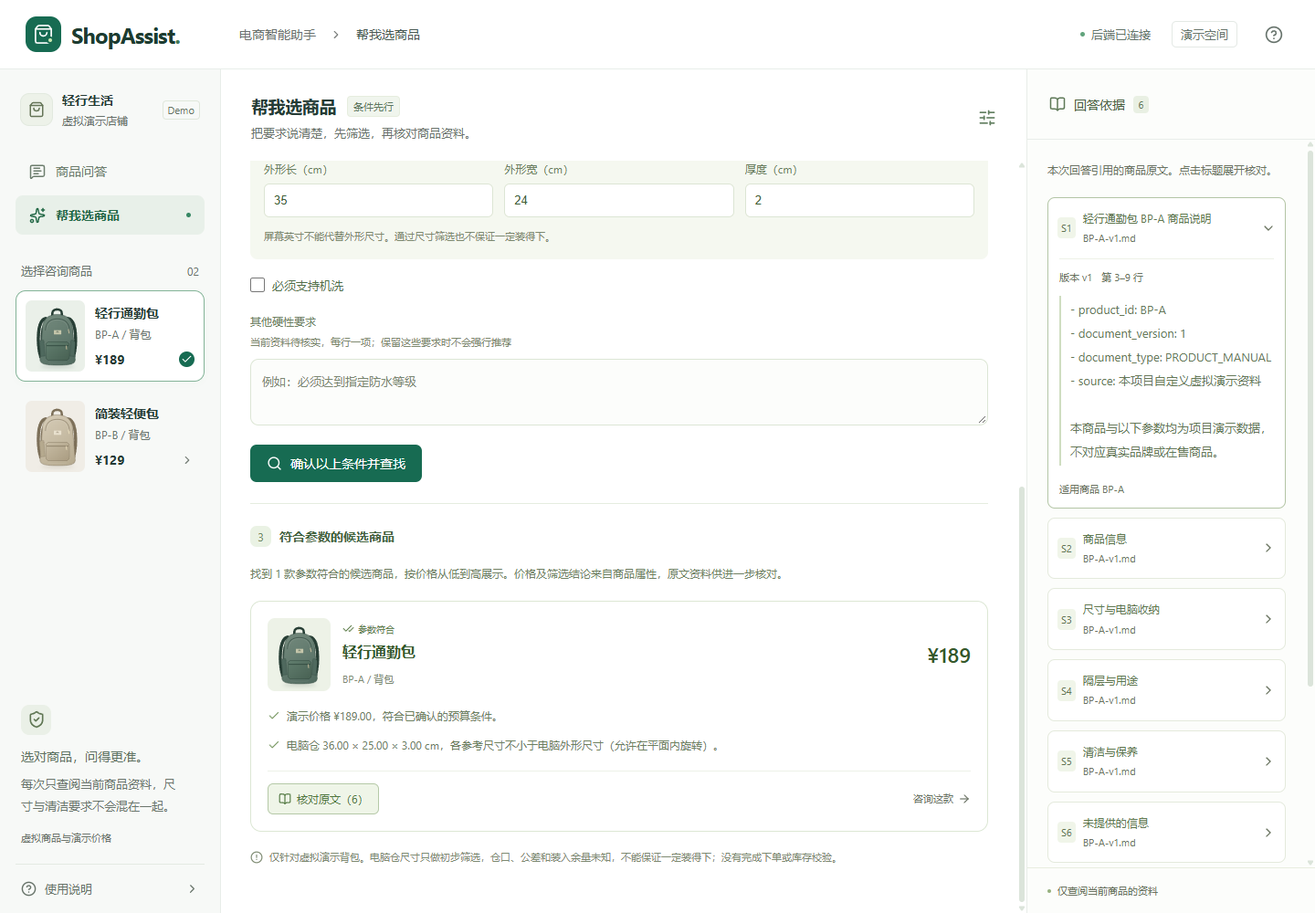
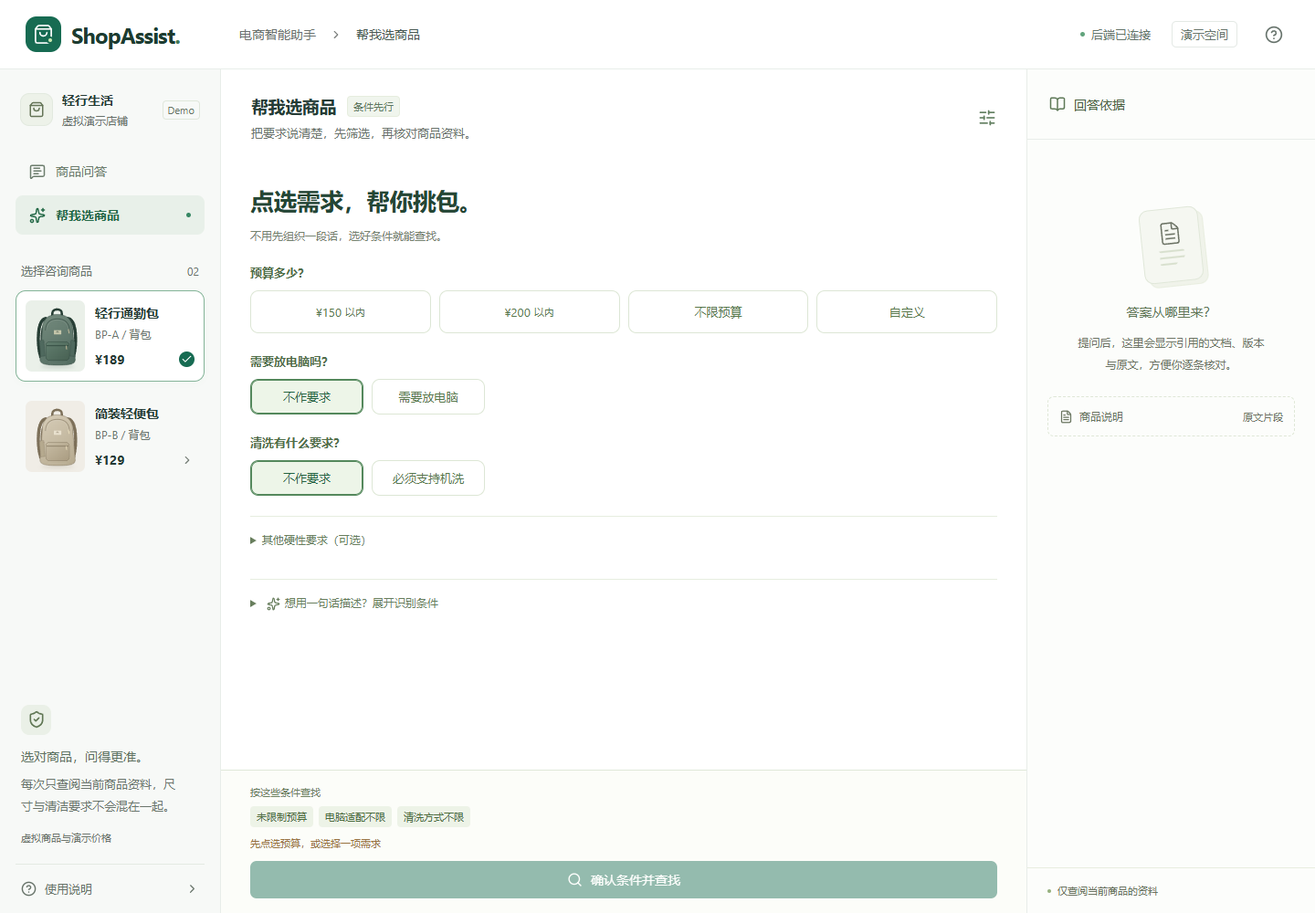
feat: streamline product recommendations with direct condition selection

diff --git a/web/src/components/RecommendationPanel.tsx b/web/src/components/RecommendationPanel.tsx
@@ -27,11 +27,22 @@ export default function RecommendationPanel({ active, onConsult, onSources, onRe
   const controller = useRef<AbortController | null>(null)
   const resultElement = useRef<HTMLDivElement>(null)
   const locked = useRef(false)
+  const [customBudget, setCustomBudget] = useState(false)
+  const advancedBudget = customBudget || (form.min !== '' && form.min !== '0') || !form.minInclusive || !form.maxInclusive || (form.max !== '' && !['150','200'].includes(form.max))
+  const dimensionNames = ['长', '宽', '厚']
+  const dimensions = [form.length,form.width,form.thickness]
+  const missingDimensions = form.laptop ? dimensionNames.filter((_,i)=>!dimensions[i]) : []
+  const badDimension = form.laptop && dimensions.some(value=>value!=='' && (!Number.isFinite(Number(value)) || Number(value)<=0 || Number(value)>200 || Math.abs(Number(value)*100-Math.round(Number(value)*100))>0.000001))
+  const budgetConflict = form.min!=='' && form.max!=='' && (Number(form.min)>Number(form.max) || (Number(form.min)===Number(form.max) && (!form.minInclusive || !form.maxInclusive)))
+  const hasCondition = form.min!=='' || form.max!=='' || form.laptop || form.machineWash || !!form.unsupported.trim()
+  const missingHint = message.trim() && !recognized ? '请先识别已填写的文字需求，或清空文字后直接点选条件' : missingDimensions.length ? `还需填写电脑的${missingDimensions.join('、')}（cm）` : badDimension ? '尺寸应为 0～200 cm 之间的正数，最多两位小数' : budgetConflict ? '预算上下限有冲突，请修改' : !hasCondition ? '先点选预算，或选择一项需求' : ''
+  const budgetSummary = form.min==='0' && form.max==='' ? '预算不限' : [form.min!=='' ? `${form.minInclusive?'≥':'>'} ¥${form.min}` : '',form.max!=='' ? `${form.maxInclusive?'≤':'<'} ¥${form.max}` : ''].filter(Boolean).join('，') || '未限制预算'
   useEffect(() => () => controller.current?.abort(), [])
   useEffect(() => {
     if (!seed) return
     controller.current?.abort(); controller.current=null; locked.current=false; setBusy(null)
     const c=seed.criteria
+    setCustomBudget(false)
     setMessage(seed.message); setRecognized(true); setResult(null); setError(null)
     setForm({ min:c.minPriceCny?.toString()??'',max:c.maxPriceCny?.toString()??'',minInclusive:c.minPriceInclusive,maxInclusive:c.maxPriceInclusive,laptop:c.needsLaptop,length:c.laptop?.lengthCm.toString()??'',width:c.laptop?.widthCm.toString()??'',thickness:c.laptop?.thicknessCm.toString()??'',machineWash:c.machineWashRequired,unsupported:c.unsupportedRequirements.join('\n') })
   }, [seed])
@@ -55,6 +66,7 @@ export default function RecommendationPanel({ active, onConsult, onSources, onRe
       if (kind === 'understand') {
         const criteria = await understandRequirement(message.trim(), request.signal)
         if(request.signal.aborted) return
+        setCustomBudget(false)
         setForm({
           min: criteria.minPriceCny?.toString() ?? '', max: criteria.maxPriceCny?.toString() ?? '',
           minInclusive: criteria.minPriceInclusive, maxInclusive: criteria.maxPriceInclusive,
@@ -64,6 +76,7 @@ export default function RecommendationPanel({ active, onConsult, onSources, onRe
         })
         setRecognized(true)
       } else {
+        if(missingHint) throw new ApiError(missingHint)
         const dimensions = [form.length, form.width, form.thickness]
         if (form.laptop && dimensions.some(Boolean) && !dimensions.every(Boolean)) throw new ApiError('请完整填写电脑的长、宽、厚，或清空尺寸后查看补充信息提示。')
         const criteria: RecommendationCriteria = {
@@ -87,36 +100,26 @@ export default function RecommendationPanel({ active, onConsult, onSources, onRe
   return <main className="chat-panel recommendation-panel" hidden={!active} aria-label="条件推荐">
     <div className="chat-heading"><div><h1>帮我选商品<span className="heading-tag">条件先行</span></h1><p>把要求说清楚，先筛选，再核对商品资料。</p></div><SlidersHorizontal size={20} className="recommend-heading-icon" /></div>
     <div className="recommend-scroll">
-      <div className="recommend-intro"><span><Sparkles size={15} />找到合适的那一只</span><h2>先看需求，再选背包。</h2><p>支持预算、电脑外形尺寸和机洗要求。未覆盖的条件会明确提示。</p></div>
-      <section className="requirements-section">
-        <div className="recommend-section-title"><span>1</span><h3>说说你的需求</h3><small>也可以跳过，直接填写下方条件</small></div>
-        <form onSubmit={e => { e.preventDefault(); void run('understand') }}>
-          <label htmlFor="requirement-description" className="sr-only">选购需求描述</label>
-          <textarea id="requirement-description" value={message} disabled={!!busy} onChange={e => changeDescription(e.target.value)} placeholder="例如：预算 200 元以内，电脑含保护壳 35×24×2 cm，想选一个背包。" rows={3} />
-          <div className="requirement-examples"><button type="button" disabled={!!busy} onClick={() => changeDescription('预算150元以内，推荐一个背包')}>预算 150 元以内</button><button type="button" disabled={!!busy} onClick={() => changeDescription('预算200元以内，电脑外形35×24×2 cm，需要放电脑')}>需要放电脑</button><button type="button" disabled={!!busy} onClick={() => changeDescription('预算200元以内，必须支持机洗')}>必须能机洗</button></div>
-          <div className="requirement-action"><span>{recognized ? <><Check size={14} />已识别，请核对下方条件</> : '识别结果需要你确认，不会直接推荐'}</span><button type="submit" className="outline-button" disabled={!!busy || !message.trim() || Array.from(message).length > 1000}>{busy === 'understand' ? <LoaderCircle className="spin" size={15} /> : <Sparkles size={15} />}识别条件</button></div>
-        </form>
-      </section>
-
-      <section className="requirements-section">
-        <div className="recommend-section-title"><span>2</span><h3>核对筛选条件</h3></div>
-        <form onSubmit={e => { e.preventDefault(); void run('filter') }}>
+      <div className="recommend-intro compact"><h2>点选需求，帮你挑包。</h2><p>不用先组织一段话，选好条件就能查找。</p></div>
+      {recognized && <p className="recognized-note"><Check size={15}/>已带入识别出的条件，请在下方核对；可直接修改。</p>}
+      <section className="requirements-section choice-section">
+        <form id="recommend-form" tabIndex={-1} onSubmit={e => { e.preventDefault(); void run('filter') }}>
           <fieldset disabled={!!busy}>
             <legend className="sr-only">已确认的筛选条件</legend>
-            <div className="budget-fields"><label>预算下限（元）<div><select aria-label="预算下限是否包含边界" value={String(form.minInclusive)} onChange={e => update({ minInclusive: e.target.value === 'true' })}><option value="true">不低于</option><option value="false">高于</option></select><input aria-label="预算下限" type="number" min="0" max="1000000" step="0.01" placeholder="不限" value={form.min} onChange={e => update({ min: e.target.value })} /></div></label><label>预算上限（元）<div><select aria-label="预算上限是否包含边界" value={String(form.maxInclusive)} onChange={e => update({ maxInclusive: e.target.value === 'true' })}><option value="true">不超过</option><option value="false">低于</option></select><input aria-label="预算上限" type="number" min="0" max="1000000" step="0.01" placeholder="不限" value={form.max} onChange={e => update({ max: e.target.value })} /></div></label></div>
-            <label className="condition-checkbox"><input type="checkbox" checked={form.laptop} onChange={e => update({ laptop: e.target.checked })} /><span>需要放电脑</span><small>使用含保护壳的机身尺寸</small></label>
+            <div className="choice-group"><h3>预算多少？</h3><div className="budget-options" role="group" aria-label="预算快捷选择">{['150','200'].map(value=><button type="button" key={value} className="choice-button" aria-pressed={!advancedBudget && form.min==='' && form.max===value && form.maxInclusive} onClick={()=>{setCustomBudget(false);update({min:'',max:value,minInclusive:true,maxInclusive:true})}}>¥{value}<small>以内</small></button>)}<button type="button" className="choice-button" aria-pressed={!advancedBudget && form.min==='0' && form.max===''} onClick={()=>{setCustomBudget(false);update({min:'0',max:'',minInclusive:true,maxInclusive:true})}}>不限预算</button><button type="button" className="choice-button" aria-pressed={advancedBudget} onClick={()=>setCustomBudget(true)}>自定义</button></div></div>
+            {advancedBudget && <div className="budget-fields"><label>预算下限（元）<div><select aria-label="预算下限是否包含边界" value={String(form.minInclusive)} onChange={e => update({ minInclusive: e.target.value === 'true' })}><option value="true">不低于</option><option value="false">高于</option></select><input aria-label="预算下限" type="number" min="0" max="1000000" step="0.01" placeholder="不限" value={form.min} onChange={e => update({ min: e.target.value })} /></div></label><label>预算上限（元）<div><select aria-label="预算上限是否包含边界" value={String(form.maxInclusive)} onChange={e => update({ maxInclusive: e.target.value === 'true' })}><option value="true">不超过</option><option value="false">低于</option></select><input aria-label="预算上限" type="number" min="0" max="1000000" step="0.01" placeholder="不限" value={form.max} onChange={e => update({ max: e.target.value })} /></div></label></div>}
+            <div className="choice-group"><h3>需要放电脑吗？</h3><div className="need-options" role="group" aria-label="电脑适配要求"><button type="button" className="choice-button" aria-pressed={!form.laptop} onClick={()=>update({laptop:false})}>不作要求</button><button type="button" className="choice-button" aria-pressed={form.laptop} onClick={()=>update({laptop:true})}>需要放电脑</button></div></div>
             {form.laptop && <div className="laptop-fields">{(['length', 'width', 'thickness'] as const).map((key, index) => <label key={key}>{['外形长（cm）', '外形宽（cm）', '厚度（cm）'][index]}<input type="number" min="0.01" max="200" step="0.01" placeholder="待补充" value={form[key]} onChange={e => update({ [key]: e.target.value })} /></label>)}<p>屏幕英寸不能代替外形尺寸。通过尺寸筛选也不保证一定装得下。</p></div>}
-            <label className="condition-checkbox"><input type="checkbox" checked={form.machineWash} onChange={e => update({ machineWash: e.target.checked })} /><span>必须支持机洗</span></label>
-            <label className="unsupported-label" htmlFor="unsupported-requirements">其他硬性要求<span>当前资料待核实，每行一项；保留这些要求时不会强行推荐</span></label>
-            <textarea id="unsupported-requirements" value={form.unsupported} onChange={e => update({ unsupported: e.target.value })} placeholder="例如：必须达到指定防水等级" rows={2} />
+            <div className="choice-group"><h3>清洗有什么要求？</h3><div className="need-options" role="group" aria-label="清洗要求"><button type="button" className="choice-button" aria-pressed={!form.machineWash} onClick={()=>update({machineWash:false})}>不作要求</button><button type="button" className="choice-button" aria-pressed={form.machineWash} onClick={()=>update({machineWash:true})}>必须支持机洗</button></div></div>
+            <details className="extra-conditions" open={!!form.unsupported.trim()}><summary>其他硬性要求{form.unsupported.trim()?'（待核实）':'（可选）'}</summary><label className="unsupported-label" htmlFor="unsupported-requirements">每行一项。当前资料未覆盖的要求会明确提示，不会静默忽略。</label><textarea id="unsupported-requirements" value={form.unsupported} onChange={e => update({ unsupported: e.target.value })} placeholder="例如：必须达到指定防水等级" rows={2} /></details>
           </fieldset>
           {error && <div className="recommend-error" role="alert"><CircleAlert size={17} /><span>{error}</span></div>}
-          <button type="submit" className="primary-button recommend-submit" disabled={!!busy}>{busy === 'filter' ? <LoaderCircle className="spin" size={17} /> : <Search size={17} />}确认以上条件并查找</button>
         </form>
       </section>
+      <details className="description-option"><summary><Sparkles size={15}/>想用一句话描述？展开识别条件</summary><form onSubmit={e => { e.preventDefault(); void run('understand') }}><label htmlFor="requirement-description" className="sr-only">选购需求描述</label><textarea id="requirement-description" value={message} disabled={!!busy} onChange={e => changeDescription(e.target.value)} placeholder="例如：预算不到150元，想放14寸电脑。" rows={2}/><div className="requirement-action"><span>识别后仍需核对，电脑尺寸不会自动猜测</span><button type="submit" className="outline-button" disabled={!!busy || !message.trim() || Array.from(message).length>1000}>{busy==='understand'?<LoaderCircle className="spin" size={15}/>:<Sparkles size={15}/>}识别条件</button></div></form></details>
 
       {result && <section className="recommend-results" ref={resultElement} aria-live="polite">
-        <div className="recommend-section-title"><span>3</span><h3>{result.status === 'CANDIDATES' ? '符合参数的候选商品' : result.status === 'NO_MATCH' ? '暂时没有符合的商品' : result.status === 'NEED_INFO' ? '还需要补充一点信息' : '这些要求还无法核实'}</h3></div>
+        <div className="recommend-section-title"><span><Search size={13}/></span><h3>{result.status === 'CANDIDATES' ? '符合参数的候选商品' : result.status === 'NO_MATCH' ? '暂时没有符合的商品' : result.status === 'NEED_INFO' ? '还需要补充一点信息' : '这些要求还无法核实'}</h3></div>
         <p className="recommend-result-message">{result.message}</p>
         <div className="candidate-list">{result.candidates.map(candidate => <article className="candidate-card" key={candidate.product.product_id}>
           <div className="candidate-summary"><div className={`candidate-art ${candidate.product.product_id === 'BP-B' ? 'sand' : ''}`}><Backpack variant={candidate.product.product_id} /></div><div><span className="candidate-status"><CheckCheck size={13} />参数符合</span><h4>{candidate.product.name}</h4><span className="candidate-id">{candidate.product.product_id} / {candidate.product.category}</span></div><strong className="candidate-price">¥{candidate.product.price_cny.toFixed(0)}</strong></div>
@@ -127,5 +130,6 @@ export default function RecommendationPanel({ active, onConsult, onSources, onRe
         <p className="recommend-notice"><CircleAlert size={14} /><span>{result.notice}</span></p>
       </section>}
     </div>
+    <div className="recommend-action-bar"><div className="condition-review" aria-live="polite"><strong>按这些条件查找</strong><div><span>{budgetSummary}</span><span>{form.laptop ? missingDimensions.length ? '电脑尺寸待补全' : `${form.length}×${form.width}×${form.thickness} cm` : '电脑适配不限'}</span><span>{form.machineWash?'必须机洗':'清洗方式不限'}</span>{form.unsupported.trim() && <span>其他要求待核实</span>}</div></div><p className={`condition-hint ${missingHint?'incomplete':''}`} role="status">{missingHint || '只筛选符合条件的商品，资料不足会如实说明。'}</p><button form="recommend-form" type="submit" className="primary-button recommend-submit" disabled={!!busy || !!missingHint}>{busy==='filter'?<LoaderCircle className="spin" size={17}/>:<Search size={17}/>}确认条件并查找</button></div>
   </main>
 }

diff --git a/web/src/styles.css b/web/src/styles.css
@@ -184,3 +184,28 @@ a { color: inherit; }
   .recommend-submit { width: 100%; }.candidate-card { padding: 15px; }.candidate-price { font-size: 20px; }.candidate-summary h4 { font-size: 15px; }
 }.agent-toggle { display:flex; align-items:center; gap:6px; color:#597451; font-size:11px; cursor:pointer; }.agent-toggle input { accent-color:#176b52; }.agent-record { display:flex; flex-direction:column; gap:5px; font-size:11px; color:#6b8061; border-left:2px solid #dbe7d2; padding:8px 10px; background:#f8fbf4; margin:12px 0; overflow-wrap:anywhere; }.agent-review { margin:8px 0; }
 .ticket-card { border:1px solid #b7cbb0; border-radius:10px; background:#f9fcf6; padding:17px; margin:15px 0; }.ticket-card h3 { display:flex; align-items:center; gap:7px; font-size:14px; margin:0 0 12px; color:#345d3f; }.ticket-card h3 span { margin-left:auto; font-size:11px; font-weight:400; color:#8a754c; }.ticket-card p { font-size:12px; line-height:1.9; color:#66775d; overflow-wrap:anywhere; }.ticket-card label { display:block; font-size:12px; color:#56704e; line-height:1.8; }.ticket-card textarea { display:block; width:100%; margin:7px 0 12px; padding:10px; border:1px solid #d5e2cd; border-radius:7px; min-height:100px; resize:vertical; font:inherit; color:#3e5636; background:white; }.ticket-card textarea:focus-visible { outline:2px solid #8eb17a; outline-offset:2px; }.ticket-card label.ticket-confirm { display:flex; gap:8px; align-items:flex-start; }.ticket-confirm input { accent-color:#176b52; margin-top:5px; }.ticket-buttons { display:flex; align-items:center; gap:16px; margin-top:15px; }.ticket-buttons .primary-button { width:auto; }.ticket-number { display:block; font-size:12px; overflow-wrap:anywhere; color:#176b52; }.ticket-summary { white-space:pre-wrap; }.ticket-card .ticket-error { color:#a25d3f; }@media(max-width:700px){.ticket-card{padding:12px}.ticket-card textarea{font-size:16px}.ticket-buttons{flex-wrap:wrap}}
+
+.recommend-intro.compact { margin:0 0 20px; }.recommend-intro.compact h2 { margin-top:0; font-size:26px; }
+.recommend-scroll { flex:1; min-height:0; }
+.choice-section { padding:0 0 18px; border-top:0; }
+.choice-group { margin:0 0 22px; }.choice-group h3 { margin:0 0 11px; font-size:13px; color:#506e49; font-weight:600; }
+.budget-options { display:grid; grid-template-columns:repeat(4,minmax(0,1fr)); gap:9px; }
+.choice-button { border:1px solid #dce6d5; background:#fff; color:#58784d; border-radius:9px; padding:14px 10px; font-size:13px; display:flex; justify-content:center; align-items:center; gap:4px; min-width:0; }
+.choice-button small { font-size:11px; }.choice-button:hover:enabled { border-color:#87ac79; background:#f8fbf4; }.choice-button[aria-pressed=true] { border-color:#54885c; color:#246341; background:#edf5e8; box-shadow:inset 0 0 0 1px #54885c; }
+.need-options { display:flex; gap:9px; }.need-options .choice-button { min-width:124px; padding:10px 16px; }
+.choice-section .budget-fields { margin:-7px 0 23px; }.choice-section .laptop-fields { margin:-8px 0 22px; }
+.extra-conditions, .description-option { border-top:1px solid #e6eddf; padding:14px 0; font-size:12px; color:#687e5d; }
+.extra-conditions summary, .description-option summary { cursor:pointer; padding:3px 0; }.extra-conditions summary:focus-visible, .description-option summary:focus-visible { outline:2px solid #85ad75; outline-offset:4px; }
+.description-option summary svg { vertical-align:middle; margin:0 5px; }.description-option form { margin-top:15px; }.description-option textarea { width:100%; border:1px solid #dce6d5; border-radius:8px; padding:11px; resize:vertical; font:inherit; line-height:1.8; color:#425d39; background:#fcfdf9; }.description-option textarea:focus-visible { outline:2px solid #85ad75; outline-offset:2px; }
+.recognized-note { display:flex; gap:6px; align-items:flex-start; font-size:12px; line-height:1.8; padding:10px; border-radius:7px; background:#f0f6ea; color:#5b7f48; }.recognized-note svg{flex-shrink:0;margin-top:3px}
+.recommend-action-bar { padding:16px 32px; border-top:1px solid #dfe8d9; background:#fcfdf9; }
+.condition-review > strong { display:block; font-size:11px; font-weight:500; color:#6c805f; margin-bottom:8px; }.condition-review > div { display:flex; flex-wrap:wrap; gap:6px; }.condition-review span { font-size:11px; padding:4px 7px; border-radius:4px; background:#edf3e7; color:#4b6b3d; }
+.condition-hint { color:#728268; font-size:11px; margin:9px 0; line-height:1.7; }.condition-hint.incomplete { color:#977140; }.recommend-action-bar .recommend-submit { margin-top:0; width:100%; }
+.recommend-entry { width:100%; display:flex; align-items:center; gap:11px; text-align:left; background:#edf5e9; color:#3c6a42; border:1px solid #d2e3c8; border-radius:10px; padding:14px; margin-bottom:22px; }.recommend-entry > span { display:flex; flex-direction:column; gap:5px; }.recommend-entry strong { font-size:13px; font-weight:600; }.recommend-entry small { font-size:11px; color:#6f8663; }.recommend-entry > svg:last-child { margin-left:auto; }.recommend-entry:hover { background:#e4f0de; }
+@media(max-width:700px){
+ .recommend-intro.compact h2 {font-size:23px}.recommend-intro.compact {margin-bottom:20px}
+ .budget-options {grid-template-columns:repeat(2,minmax(0,1fr));gap:8px}.choice-button {padding:12px 9px}.need-options .choice-button {flex:1;min-width:0;padding:10px 7px}
+ .recommend-action-bar {padding:11px 18px max(12px,env(safe-area-inset-bottom))}.condition-review > strong {display:none}.condition-hint {font-size:10px;margin:7px 0}.condition-review span {font-size:10px;padding:3px 5px}
+ .recommend-entry {padding:11px;margin-bottom:18px}.recommend-entry strong{font-size:12px}.recommend-entry small{font-size:10px}.description-option textarea{font-size:16px}
+}
+@media(max-width:700px){.catalog-sidebar.browsing-catalog .catalog-heading,.catalog-sidebar.browsing-catalog .product-list{display:none}.catalog-sidebar.browsing-catalog .workspace-nav{margin-bottom:0}}

diff --git a/web/src/App.tsx b/web/src/App.tsx
@@ -140,17 +140,17 @@ export default function App() {
   }
 
   return <div className="app-shell">
-    <a className="skip-link" href={mode === 'qa' ? '#question-input' : '#requirement-description'}>跳到提问框</a>
+    <a className="skip-link" href={mode === 'qa' ? '#question-input' : '#recommend-form'}>跳到输入区域</a>
     <header className="topbar">
       <a className="brand" href="/" aria-label="ShopAssist 首页"><BrandMark /><span>ShopAssist<span className="brand-period">.</span></span></a>
       <div className="topbar-center"><span className="workspace-label">电商智能助手</span><ChevronRight size={14} /><span>{mode === 'qa' ? '商品问答' : '帮我选商品'}</span></div>
       <div className="topbar-actions"><span className={`connection-badge ${productsError ? 'offline' : ''}`}><span />{loadingProducts ? '连接中' : productsError ? '后端未连接' : '后端已连接'}</span><span className="demo-label">演示空间</span><button className="icon-button help-button" aria-label="查看使用说明" onClick={() => setShowHelp(true)}><HelpCircle size={20} /></button></div>
     </header>
 
-    <aside className="catalog-sidebar" aria-label="商品选择">
+    <aside className={`catalog-sidebar ${mode==='recommend'?'browsing-catalog':''}`} aria-label="商品选择">
       <div className="workspace-selector"><span className="store-icon"><ShoppingBag size={18} /></span><div><strong>轻行生活</strong><span>虚拟演示店铺</span></div><span className="store-badge">Demo</span></div>
       <nav className="workspace-nav" aria-label="功能"><button className={`workspace-nav-button ${mode === 'qa' ? 'active-nav' : ''}`} aria-current={mode === 'qa' ? 'page' : undefined} onClick={() => { setMode('qa'); setMobileSources(false) }}><MessageSquareText size={18} /><span>商品问答</span>{mode === 'qa' && <span className="nav-dot" />}</button><button className={`workspace-nav-button ${mode === 'recommend' ? 'active-nav' : ''}`} aria-current={mode === 'recommend' ? 'page' : undefined} onClick={() => { setMode('recommend'); setMobileSources(false) }}><Sparkles size={18} /><span>帮我选商品</span>{mode === 'recommend' && <span className="nav-dot" />}</button></nav>
-      <div className="catalog-heading"><h2>选择咨询商品</h2><span>{products.length.toString().padStart(2, '0')}</span></div>
+      <div className="catalog-heading"><h2>{mode==='recommend'?'演示商品目录':'选择咨询商品'}</h2><span>{products.length.toString().padStart(2, '0')}</span></div>
       <div className="product-list">
         {loadingProducts ? <div className="catalog-loading"><LoaderCircle className="spin" size={18} />正在加载商品</div> : productsError ? <div className="catalog-error"><CircleAlert size={20} /><p>商品加载失败</p><button className="text-action" onClick={() => setReload(n => n + 1)}><RefreshCw size={14} />重新加载</button></div> : products.length === 0 ? <p className="empty-catalog">暂无可咨询商品，请先添加商品资料。</p> : products.map(item => <button key={item.product_id} className={`product-card ${item.product_id === selectedId ? 'selected' : ''}`} aria-pressed={item.product_id === selectedId} onClick={() => { setMode('qa'); setSelectedId(item.product_id); setMobileSources(false) }}>
           <span className={`product-art ${item.product_id === 'BP-B' ? 'sand' : ''}`}><Backpack variant={item.product_id} /></span>
@@ -168,7 +168,8 @@ export default function App() {
       <div className="conversation-scroll" ref={scroll} onScroll={() => { const el = scroll.current; if (el) setShowJump(el.scrollHeight - el.scrollTop - el.clientHeight > 240) }}>
         {!turns.length ? <div className="welcome">
           <div className="welcome-hero"><div className="welcome-copy"><span className="welcome-kicker"><Sparkles size={15} />你的商品咨询助手</span><h2>关于这只包，<br />你想了解什么？</h2><p>尺寸、收纳，或是清洁方式。<br />选一个问题，让我们一起翻翻商品说明。</p></div><div className="hero-art"><span className="orbit orbit-one" /><span className="orbit orbit-two" /><Backpack variant={selectedId} /><span className="hero-art-label"><span className="tiny-dot" />{product?.name ?? '商品说明'}</span></div></div>
-          <div className="suggestions-heading"><span>从一个小问题开始</span><span>也可以直接输入</span></div>
+          <button className="recommend-entry" onClick={()=>{setMode('recommend');setMobileSources(false)}}><Sparkles size={18}/><span><strong>还没选好？点选条件帮你挑</strong><small>选预算、选需求，不用反复打字</small></span><ArrowRight size={18}/></button>
+          <div className="suggestions-heading"><span>也可以问问这款商品</span><span>支持直接输入</span></div>
           <div className="suggestion-list">{suggestions.map(({ icon: Icon, title, detail, question }) => <button key={title} className="suggestion" onClick={() => void send(question)} disabled={!product || busy}><span className="suggestion-icon"><Icon size={19} strokeWidth={1.6} /></span><span><strong>{title}</strong><small>{detail}</small></span><ArrowRight size={17} /></button>)}</div>
           <div className="welcome-promise"><FileText size={15} /><span>回答附原文引用</span><span className="promise-separator" /><CircleAlert size={15} /><span>资料未写，如实说明</span></div>
         </div> : <div className="conversation" aria-live="polite" aria-relevant="additions text">

diff --git a/docs/16-推荐点选交互验收.md b/docs/16-推荐点选交互验收.md
@@ -1,0 +1,32 @@
+# 推荐入口：点选优先
+
+日期：2026-11-02。根据“对话输入繁琐、容易漏条件”的反馈调整前端，不改筛选接口、数据模型或框架。
+
+## 当前交互
+
+- 商品问答欢迎页新增“点选条件帮你挑”入口，原侧栏入口保留。
+- 推荐首屏直接选择150元以内、200元以内、不限预算或自定义范围，不要求先输入自然语言。
+- 电脑与清洗要求默认“不作要求”，底部明确显示“电脑适配不限、清洗方式不限”；不是保证商品适配所有电脑或清洗方式。
+- 选择放电脑才展开长、宽、厚；有缺项、非正数、超过200cm、精度过高或预算矛盾时提示并禁用提交。Java 原有校验仍保留。
+- 底部条件摘要与查找按钮固定在滚动区外，提交前始终可核对。
+- 自然语言识别和其他硬性要求改为折叠入口。已填写但未识别的文字会阻止查找，避免静默丢弃文字条件；识别结果与 Agent 带入的条件仍可在控件中核对。
+- 手机推荐页暂收起商品目录，保留功能切换，给条件和结果更多空间。
+
+“不限预算”明确由用户点击，映射为价格下限0元、无上限，适用于当前商品表非负价格约束；没有暗中设置预算。自定义与自然语言仍保留严格小于/大于的预算边界。
+
+## 实际验证
+
+1. 点选150元并确认：真实筛选仅返回BP-B；请求日志为 /api/recommendations，没有 /understand 模型识别请求。
+2. 选择放电脑后未填尺寸、只填长宽：提交禁用，直接提示缺失尺寸。
+3. 150元、35×24×2cm：真实返回NO_MATCH；改成200元后只返回BP-A，没有自动放宽条件。
+4. 文字输入“预算不到129元，推荐背包”：识别前提交禁用，识别后自定义范围显示“低于129”，没有变成“129以内”。
+5. 1440×1000桌面、390×844和320×740手机视口：无页面横向溢出，底部按钮可见，文字输入默认折叠。
+6. TypeScript类型检查和Vite构建通过，浏览器无未捕获脚本异常。
+
+截图：.runtime/recommendation-click-first.png、recommendation-missing-size.png、recommendation-click-mobile.png。公开截图见 [推荐点选页面](images/recommendation.png)。测试使用虚拟商品，未产生工单或其他写操作。
+
+## 工单理解补充
+
+按钮防连点只能减少当前页面的重复操作，不能覆盖多窗口、绕过页面直接请求和网络重试。同一草稿确认由事务、草稿唯一约束与幂等键共同保证只有一张正式工单，重复请求返回原工单；不是先保存多张再使其他工单失效。
+
+另一份新草稿可以创建独立工单，不会被“同草稿唯一”约束拦截。该功能不是基于文本相似度的全局问题去重。

diff --git a/README.md b/README.md
@@ -11,7 +11,7 @@
 - **知识入库**：UTF-8 Markdown 解析、按标题和长度分块、异步任务状态、内容哈希校验、版本管理。
 - **向量检索**：Ollama BGE-M3 1024 维向量，PostgreSQL/pgvector 余弦检索；按商品 ID、有效版本和向量空间过滤。
 - **带引用问答**：DeepSeek 根据检索片段回答，返回文档、版本、标题、行号与原文；校验引用 ID，不伪装模型错误为资料不足。
-- **条件推荐**：自然语言识别后由用户核对，Java 参数化 SQL 按预算、电脑外形尺寸和机洗要求筛选；缺信息追问、无符合商品不放宽约束、无法核实的硬性要求不忽略。
+- **条件推荐**：点选预算与需求、缺项即时提示、底部条件核对；自然语言识别为可选入口。Java 参数化 SQL 按预算、电脑外形尺寸和机洗要求筛选，无符合商品不放宽约束，无法核实的硬性要求不忽略。
 - **问答页面**：商品切换、快捷提问、原文面板、错误重试、独立商品记录与手机布局。
 - **最小 Agent**：DeepSeek 原生工具调用、问答/推荐条件准备/咨询草稿三个工具、结果回传、参数校验、最多三次调用、重复调用防护与人工核对入口。不是完整 Agent 框架。
 - **咨询工单**：持久草稿、编辑后版本与令牌更新、显式确认、事务行锁及唯一约束防重；正式创建不暴露给模型，确认令牌不回传模型。
@@ -132,6 +132,7 @@ evaluation/   Python 评测规划，尚未实现
 - [条件推荐设计与验收](docs/13-条件推荐与验收.md)
 - [最小 Agent 循环与验收](docs/14-最小Agent工具循环.md)
 - [咨询工单确认与幂等验收](docs/15-咨询工单确认与幂等验收.md)
+- [推荐点选交互验收](docs/16-推荐点选交互验收.md)
 
 ## 当前边界
 

diff --git a/web/README.md b/web/README.md
@@ -45,6 +45,8 @@ npm run preview
 
 增加“帮我选商品”：可直接填写预算/电脑尺寸/机洗条件，也可先识别自然语言后核对。候选商品可核对原文或转入商品问答；不会自动放宽硬条件，未覆盖要求会明确说明。
 
+推荐页面目前以点选预算和需求为主，文字识别为折叠选项。底部常驻条件摘要与提交按钮；缺失电脑尺寸等条件时即时提示，Agent带入的条件继续复用同一套控件。手机推荐页收起商品目录。交互验证见 ../docs/16-推荐点选交互验收.md。
+
 商品问答增加“客服自动选工具”开关，启用后调用 /api/agent；编排模型选择问答或推荐条件准备工具。推荐条件通过“核对推荐条件”带入表单，仍由用户确认后筛选。页面历史不参与编排。该新增链路已完成真实模型与浏览器联调，详见 ../docs/14-最小Agent工具循环.md。
 
 咨询工单草稿已接入 Agent：原文预填、修改保存后重新核对、确认创建、取消和未知结果的同键重试。切换商品保留草稿版本和创建结果，刷新仍会清除页面内存记录。详见 ../docs/15-咨询工单确认与幂等验收.md。
